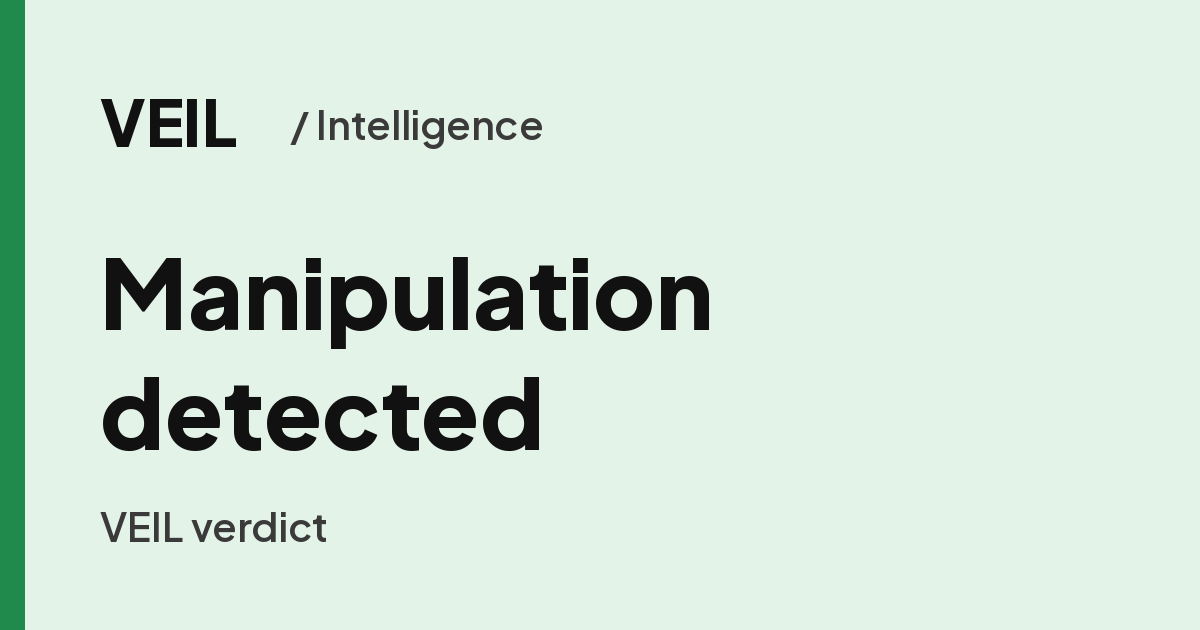
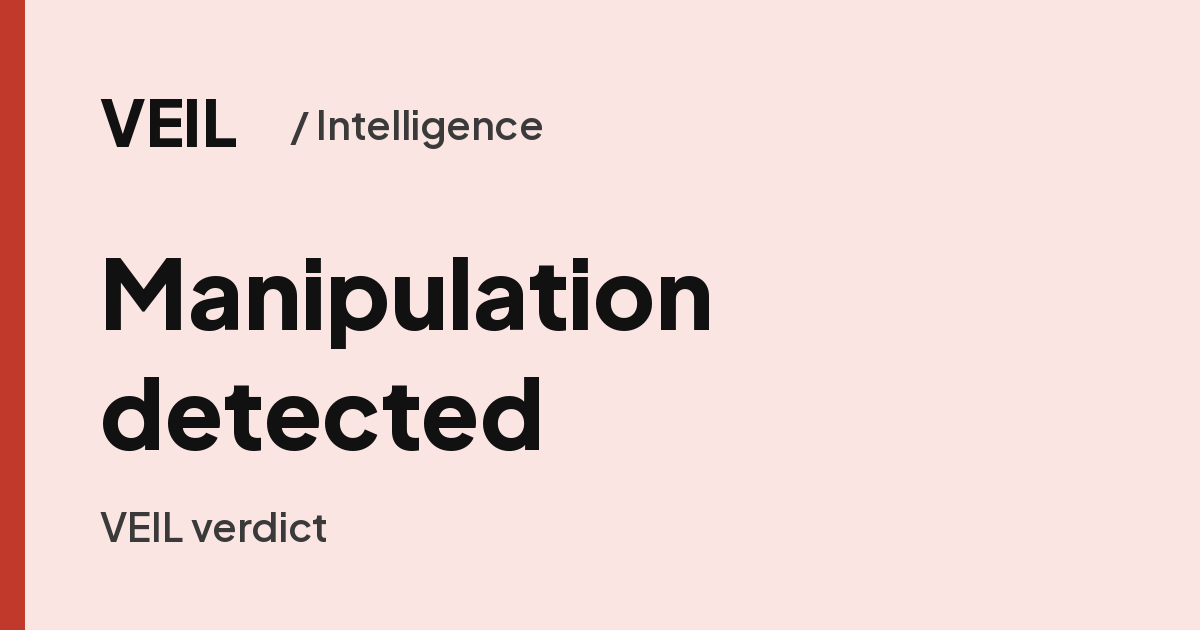
Render the "Manipulation detected" OG preview in red
Switch the verdict-detected card to the --danger accent #c0392b on a
light red background (#fbe5e2) instead of the green palette. Regenerate
only public/og/verdict-detected.png; the other card PNGs are unchanged.

Adds a vitest case that asserts the generator entry uses #c0392b and no
longer contains #1f8a4c or #e4f3e8. Local OpenSpec change
og-detected-red-palette modifies the Card images requirement of
link-preview-cards. Shared spec 80eea74d1a67f7e07075f91415415fbd3dba7444
is unchanged (no interface change).

Refs junction-2026/project#58, junction-2026/frontend#80

Changed region(s): [[0.0, 0.0, 0.0308, 1.0]]

diff --git a/nginx/og.test.ts b/nginx/og.test.ts
@@ -135,3 +135,12 @@ describe('public/og images', () => {
     expect(statSync(`${dir}/${f}`).size).toBeLessThanOrEqual(300 * 1024)
   })
 })
+
+describe('og generator', () => {
+  it('maps verdict-detected to the red palette', () => {
+    const entry = /'verdict-detected': \([^\n]*\),/.exec(readFileSync('scripts/og-images.py', 'utf8'))?.[0] ?? ''
+    expect(entry).toContain('#c0392b')
+    expect(entry).not.toContain('#1f8a4c')
+    expect(entry).not.toContain('#e4f3e8')
+  })
+})

diff --git a/scripts/og-images.py b/scripts/og-images.py
@@ -9,7 +9,7 @@ W, H = 1200, 630
 # name -> (background, accent, headline lines, subline)
 CARDS = {
     'site': (BG, '#4c82fb', ['Propaganda and', 'manipulation analysis'], 'Paste a post or article. VEIL shows the signs.'),
-    'verdict-detected': ('#e4f3e8', '#1f8a4c', ['Manipulation', 'detected'], 'VEIL verdict'),
+    'verdict-detected': ('#fbe5e2', '#c0392b', ['Manipulation', 'detected'], 'VEIL verdict'),
     'verdict-not_detected': ('#e6f0ff', '#4c82fb', ['No manipulation', 'indicators'], 'VEIL verdict'),
     'verdict-uncertain': ('#fff0d9', '#c45a1a', ['Uncertain'], 'VEIL verdict'),
     'pending': (BG, '#4c82fb', ['Analysis in progress'], 'Open the link to follow it live.'),

diff --git a/openspec/changes/og-detected-red-palette/specs/link-preview-cards/spec.md b/openspec/changes/og-detected-red-palette/specs/link-preview-cards/spec.md
@@ -1,0 +1,16 @@
+## MODIFIED Requirements
+
+### Requirement: Card images
+`public/og/site.png`, `verdict-detected.png`, `verdict-not_detected.png`, `verdict-uncertain.png`, `pending.png` and `unavailable.png` SHALL be 1200x630 PNGs of at most 300 KB, legible at 600x315, with the verdict label rendered as text and no confidence number, generated by the committed `scripts/og-images.py`. All cards SHALL use the ui-design-foundation colours, except `verdict-detected.png`, which SHALL use the red palette of the scenario below.
+
+#### Scenario: Image size
+- **WHEN** a test reads the PNG IHDR of each file
+- **THEN** the dimensions are 1200x630 and the file size is at most 300 KB
+
+#### Scenario: Detected card palette
+- **WHEN** `verdict-detected.png` is rendered
+- **THEN** its accent is `#c0392b` (`--danger`), its background is light red with a red channel above its green and blue channels and no green, and its ink text has a contrast of at least 7:1 against that background
+
+#### Scenario: Detected generator entry
+- **WHEN** a test reads `scripts/og-images.py`
+- **THEN** the `verdict-detected` entry uses accent `#c0392b` and contains neither `#1f8a4c` nor `#e4f3e8`

diff --git a/openspec/changes/og-detected-red-palette/proposal.md b/openspec/changes/og-detected-red-palette/proposal.md
@@ -1,0 +1,10 @@
+## Why
+The "Manipulation detected" link-preview image uses the green success palette. A detected verdict should read as a warning, so its preview image should use the red `--danger` accent.
+
+## What Changes
+- `scripts/og-images.py`: the `verdict-detected` entry uses accent `#c0392b` (`--danger`) and a light red background `#fbe5e2`, instead of the green `#1f8a4c` / `#e4f3e8`. Headline and subline are unchanged.
+- Regenerate `public/og/verdict-detected.png` only. The other card images stay byte-identical.
+- Requirement `Card images` (link-preview-cards) is modified to allow the red palette for the detected card.
+
+## Impact
+Frontend only; static asset and generator. No shared contract change. og:title, og:image URL, og:image:alt and in-app verdict colours are unchanged. Parallel change `public-origin-startup-warning` is not touched.

diff --git a/openspec/changes/og-detected-red-palette/tasks.md b/openspec/changes/og-detected-red-palette/tasks.md
@@ -1,0 +1,9 @@
+## 1. Generator
+- [x] 1.1 Change the `verdict-detected` entry in `scripts/og-images.py` to accent `#c0392b` and background `#fbe5e2`.
+
+## 2. Images
+- [x] 2.1 Regenerate `public/og/verdict-detected.png` (1200x630, at most 300 KB) and leave the other card PNGs byte-identical.
+- [x] 2.2 Check with Pillow that the background and accent sample pixels are red-dominant and that no pixel has green above both red and blue by more than 16.
+
+## 3. Tests
+- [x] 3.1 Add a vitest case in `nginx/og.test.ts` that reads `scripts/og-images.py` and asserts the `verdict-detected` entry uses `#c0392b` and contains neither `#1f8a4c` nor `#e4f3e8`.
